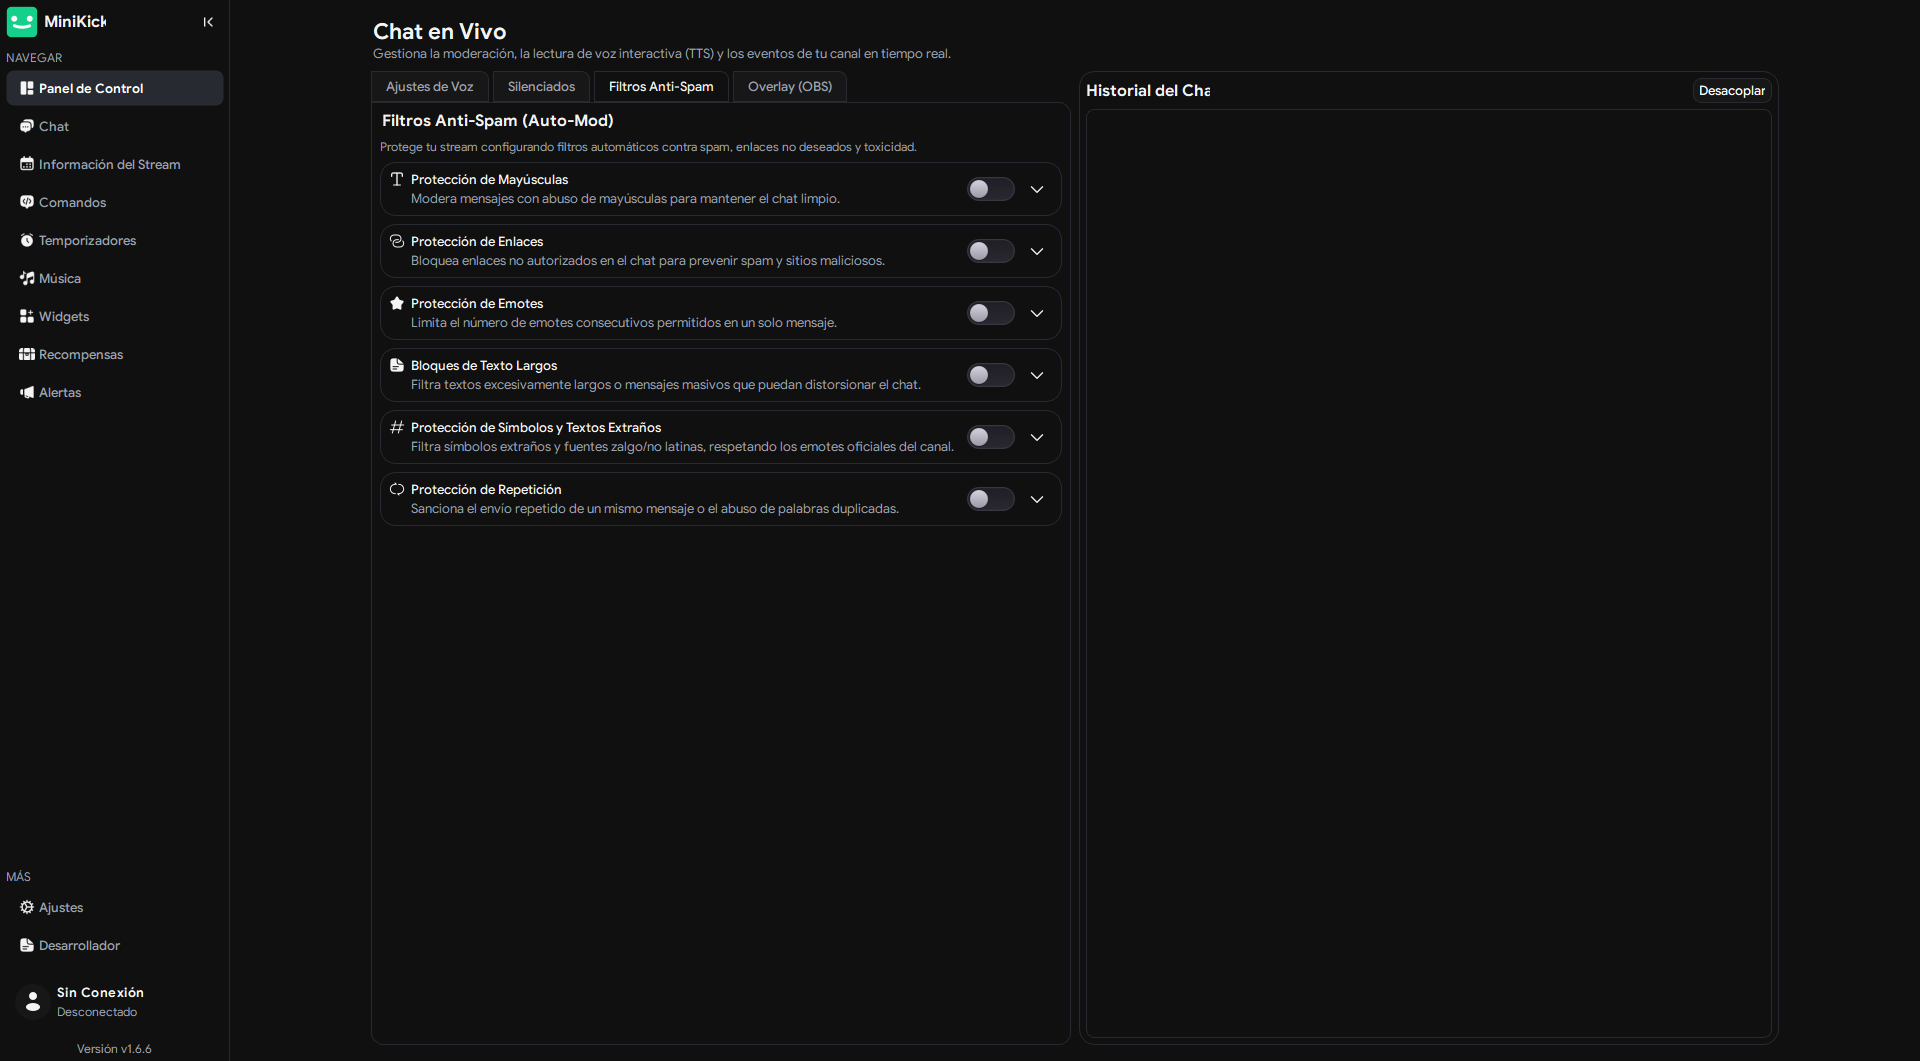
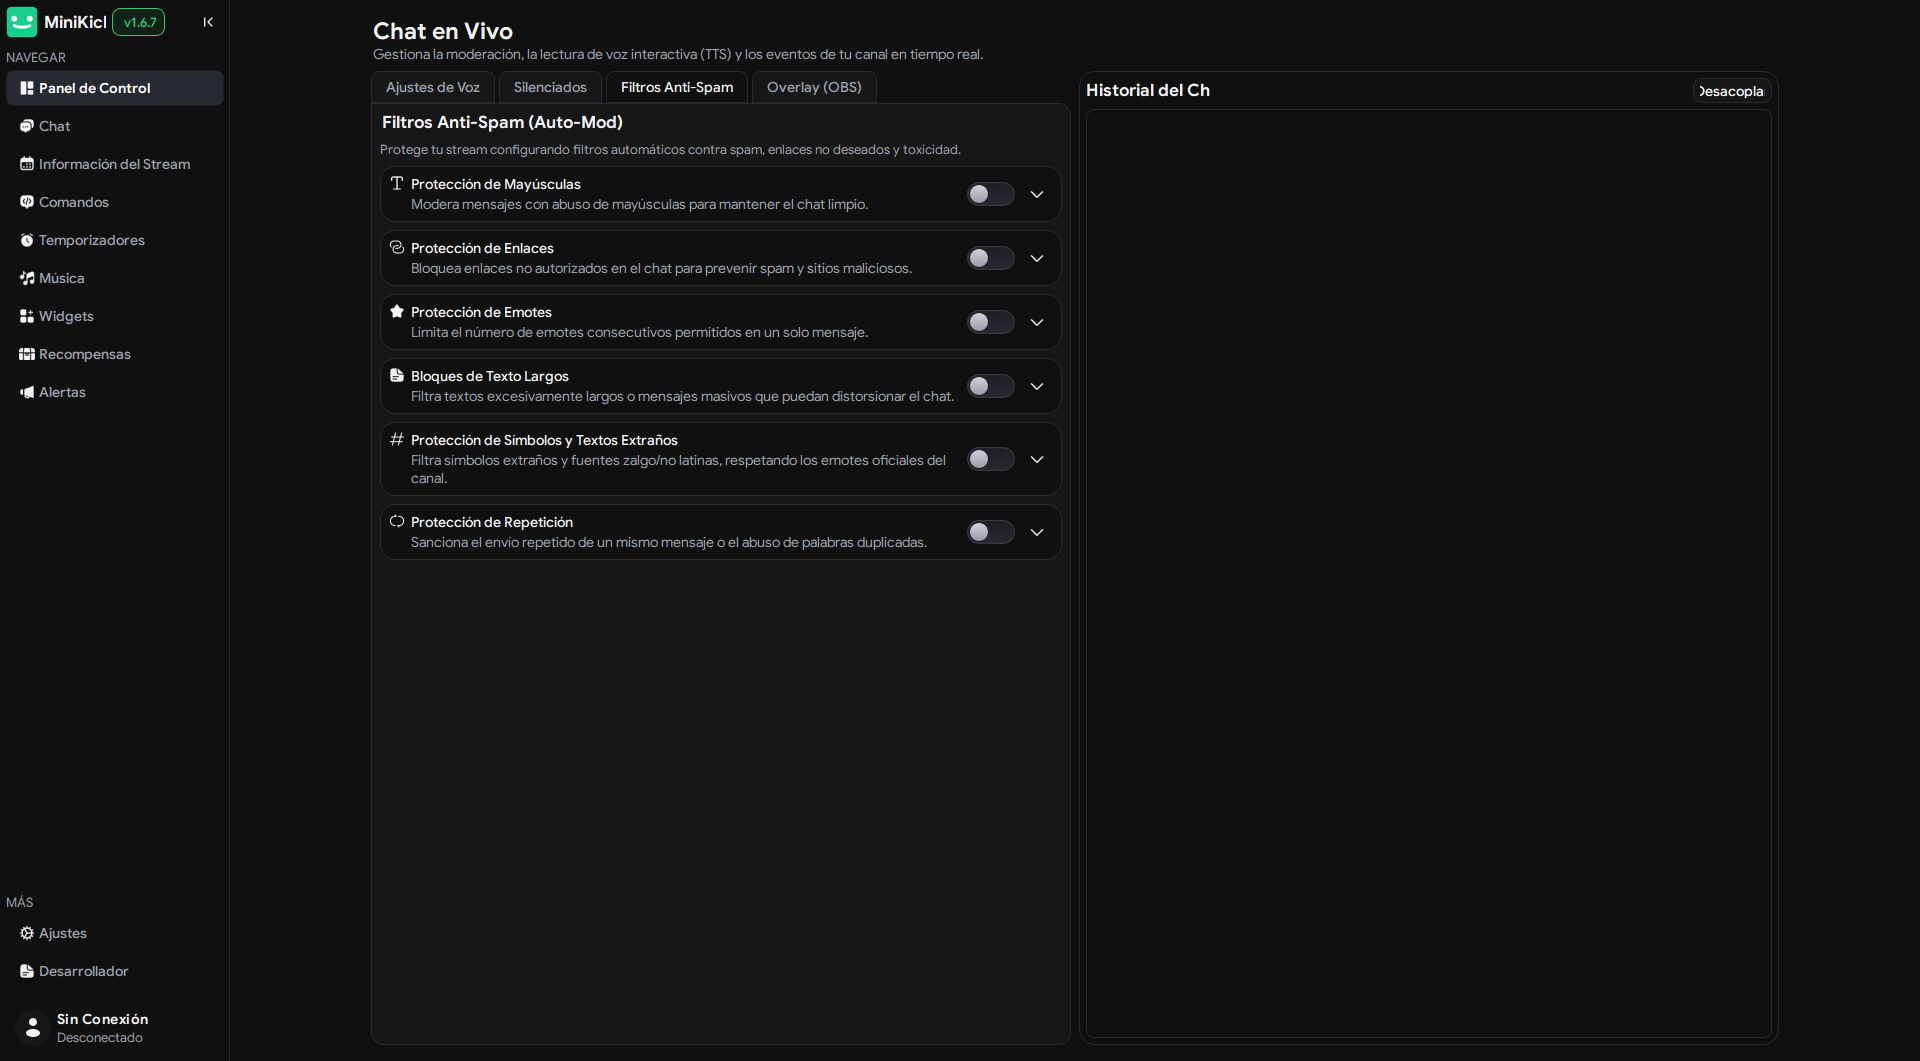
Release V1.6.7

diff --git a/docs/walkthroughs/v1.6.7/Release_Notes_v1.6.7.md b/docs/walkthroughs/v1.6.7/Release_Notes_v1.6.7.md
@@ -1,0 +1,45 @@
+# Notas de la Versión — MiniKick v1.6.7
+
+Fecha de Publicación: 9 de noviembre de 2026
+
+MiniKick 1.6.7 mejora la experiencia del chat y la lectura de voz, conserva mejor tu espacio de trabajo y evita una ventana fugaz durante el inicio. También incorpora diagnósticos más útiles para investigar retrasos de mensajes y conexiones, y presenta las notas de versión de GitHub con un formato más completo.
+
+---
+
+## Novedades
+
+| Sección | Característica | Descripción | Beneficio para el Usuario |
+|---|---|---|---|
+| Settings | Notas de versión más completas | Las notas obtenidas desde GitHub conservan el idioma original e incluyen mejor formato para tablas, listas, enlaces y bloques de código. | Puedes consultar los cambios publicados con su presentación original y sin traducciones automáticas del contenido. |
+| Chat | Diagnóstico de retrasos | MiniKick registra mediciones de los tramos entre la llegada de un mensaje y su procesamiento, junto con información de la conexión. | Facilita distinguir si una demora se relaciona con la conexión o con el procesamiento de la aplicación. |
+| Chat | Búsqueda de GIF sin pausa en la interfaz | Las búsquedas de GIF se realizan en segundo plano mientras las direcciones directas siguen funcionando como antes. | Puedes seguir usando el chat mientras se obtiene el resultado. |
+| Chat | Lectura de voz más clara | La voz omite emojis, reconoce abreviaturas frecuentes y prepara mejor los nombres de usuario para su lectura. | Los mensajes y nombres suenan más naturales y se evitan pausas causadas por la lectura literal de símbolos. |
+| Chat | Pausa entre mensajes de voz | Se incorpora una breve separación entre mensajes consecutivos leídos en voz alta. | Es más fácil distinguir dónde termina un mensaje y comienza el siguiente. |
+| Chat | Ventana flotante que recuerda su posición | La ventana desacoplada conserva su ubicación y tamaño al volver a abrirla, además de mantenerlos al acoplar y desacoplar durante la sesión. | Recuperas la distribución de pantalla que prefieres sin tener que acomodar la ventana cada vez. |
+
+## Mejoras
+
+- **Chat de Kick:** se amplían las mediciones de conexión y de procesamiento para ayudar a identificar el origen de los retrasos. Las búsquedas de GIF ya no bloquean la interfaz, y las comprobaciones de conexión detectan antes algunas conexiones inactivas.
+- **Conexiones más estables:** se ajusta la recuperación del tiempo de espera de reconexión y una respuesta lenta a una comprobación de diagnóstico ya no debe cerrar por sí sola el chat activo.
+- **Registro de actividad:** los mensajes de diagnóstico mantienen un idioma consistente y el registro en disco evita escrituras innecesariamente frecuentes.
+- **Lectura de voz:** la limpieza de símbolos, la preparación de nombres y las pronunciaciones comunes se aplican de forma coherente a los mensajes, nombres y otros textos enviados a la voz.
+- **Presentación:** los iconos y badges se muestran con bordes más nítidos y tamaños adecuados; las notas de versión se adaptan mejor al tema de MiniKick.
+- **Inicio más ordenado:** la etiqueta de versión de la barra lateral permanece dentro de la ventana principal desde su creación, y la pantalla de inicio ya no viene acompañada por una pequeña ventana vacía.
+- **Consistencia visual:** se eliminaron duplicaciones internas de valores de tema sin cambiar los colores, medidas ni estilos resultantes.
+
+## Correcciones
+
+- Se evita que una etiqueta de la barra lateral aparezca fugazmente como una ventana independiente durante el inicio.
+- La voz ya no pronuncia los nombres de los emojis y evita deletrear nombres de usuario por tener símbolos decorativos o números largos.
+- Se corrigen pronunciaciones poco naturales de abreviaturas comunes del chat y términos habituales de streaming.
+- Una búsqueda de GIF lenta ya no detiene temporalmente el procesamiento de la interfaz.
+- Se corrige el caso en que el tiempo de espera para reconectar podía permanecer elevado tras varias desconexiones.
+- Las respuestas lentas de diagnóstico ya no se confunden con una conexión inactiva que deba cerrarse.
+- La ventana flotante del chat conserva su posición y tamaño al volver a acoplarla y desacoplarla, y también entre ejecuciones.
+- Se corrige el recorte de algunos iconos y los bordes irregulares de badges en diálogos.
+
+> [!NOTE]
+> Las mediciones de latencia ayudan a investigar los retrasos, pero no determinan por sí solas si su origen está en la plataforma, la red o el equipo.
+
+> [!IMPORTANT]
+> Las pronunciaciones se contrastaron con el fonemizador de voz; no se evaluó auditivamente el audio generado. Las mediciones de conexión tampoco se validaron durante una transmisión en vivo.

diff --git a/docs/walkthroughs/v1.6.7/WT-1.6.7_10.md b/docs/walkthroughs/v1.6.7/WT-1.6.7_10.md
@@ -1,0 +1,31 @@
+# Walkthrough Técnico — MiniKick v1.6.7 (Paso 10)
+
+Se corrigió la aparición fugaz de una pequeña ventana nativa durante el inicio. La causa era la etiqueta de versión de la barra lateral, que se hacía visible antes de pertenecer a la ventana principal. Se le asignó su contenedor desde la creación y se añadió una prueba que detecta etiquetas mostradas como ventanas independientes. También se amplió la auditoría de ventanas para probar el splash visible y se centralizó el manejo de clics de las tarjetas de severidad y las pestañas de alertas en el widget compartido.
+
+---
+
+## Novedades
+
+- La auditoría runtime incluye el splash visible y busca ventanas top-level inesperadas mientras se muestra.
+- La auditoría estática revisa también el código de arranque y advierte expresamente que ese modo no detecta ventanas creadas durante la ejecución.
+- Se añadieron pruebas que detectan si una etiqueta se muestra accidentalmente como ventana independiente y verifican el manejo compartido de clics.
+
+## Mejoras
+
+- La etiqueta de versión de la barra lateral recibe su contenedor padre desde su creación, manteniéndose dentro de la ventana principal durante la construcción de la interfaz.
+- Las tarjetas de severidad y las pestañas de variantes de alertas reutilizan el manejo común del clic izquierdo y conservan sus señales y datos asociados.
+- La auditoría de ventanas informa claramente el alcance de sus comprobaciones: las vistas se prueban de forma aislada y no se inicia la aplicación completa.
+
+## Correcciones
+
+- Se eliminó la microventana fugaz con barra de título y contenido vacío que aparecía junto a la pantalla de inicio.
+- Se previene que la etiqueta de versión se convierta temporalmente en una ventana nativa independiente antes de ser incorporada al diseño de la barra lateral.
+
+## Verificación
+
+| Comprobación | Resultado |
+| --- | --- |
+| Pruebas focalizadas de la barra lateral y widgets clicables | 7 aprobadas |
+| Auditoría runtime de ventanas | 12 de 12 escenarios limpios; incluye splash visible y vistas aisladas |
+| Suite rápida de auditorías de calidad | 11 de 12 aprobadas; falla Project Translation Keys por la clave `music.youtube.com` ausente en ambos idiomas |
+
